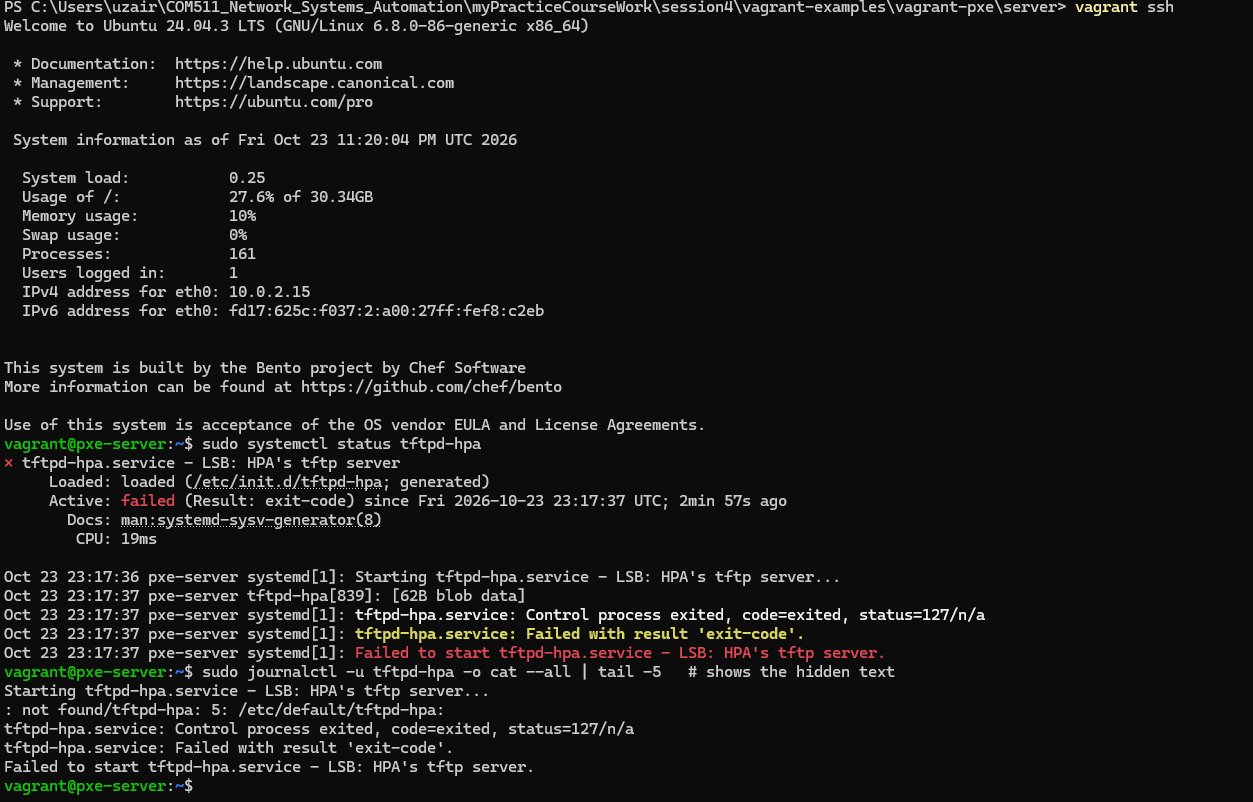
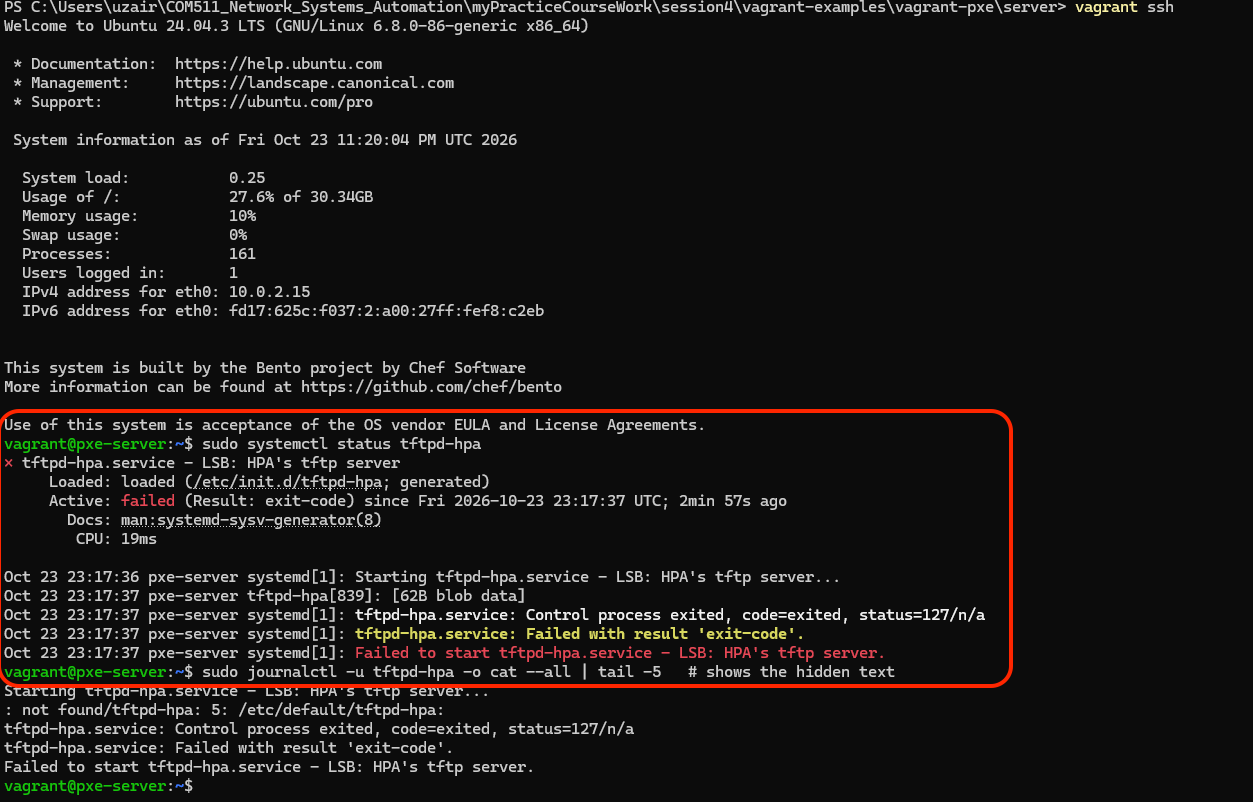
adding crlf-lf notes on session 4

Changed region(s): [[0.0, 0.4988, 0.8093, 0.8728]]

diff --git a/myPracticeCourseWork/personal_journal/sessions/session4.md b/myPracticeCourseWork/personal_journal/sessions/session4.md
@@ -20,20 +20,52 @@
 
 ## Exercises and results
 *What exercises did you complete. What results. Screen shots and notes*
+
+The goal was to get the PXE server running and the client VM to boot from it and install Ubuntu automatically. I ran into two issues that prevented this from happening.
+
 ### Issue 1: Line endings
-* Provisioning the PXE server failed because two files had the wrong line endings
+* From what I could find, provisioning the PXE server failed because a file had the wrong line ending
 ![Error during vagrant up](../images/w4-crlf-error.png)
 
 * Windows uses CRLF to end lines, Linux uses LF
 * Git on Windows was converting LF to CRLF on checkout. Fine for files used on Windows, but these two run inside the Linux VM:
-  * `setup.sh`: provisioning script, updates the VM and installs the initial software (TFTP, NFS, nginx, DHCP)
   * `tftpd-hpa`: configuration for the TFTP server
 * Linux could not read them correctly with CRLF endings, so setup failed
+
+#### Solution
 * Changed both files to LF
-* Researched on Stack Overflow: same problem reported about 13 years ago
-* Fix found: set Git attributes (`.gitattributes`) so Git does not convert line endings for these files
-* Result: provisioning now runs smoothly
+* Researched on Stack Overflow: same [problem reported](https://stackoverflow.com/questions/1967370/git-replacing-lf-with-crlf) about 13 years ago
+
+![Fixing line endings](../images/w4-crlf-vagrantfile.png)
+![Fixing line endings](../images/w4-lf-tftpd.png)
+
+We can check the line endings of a file with `git ls-files --eol <file>`. The outputs in the screenshot show that the `Vagrantfile` is `CRLF` and `tftpd-hpa` file is now set to `LF` which is what the Linux VM needs.
+
+* **More Permanent Fix**: We can set Git attributes (`.gitattributes`) so Git does not convert line endings for these files in future checkouts:
+  * Added a `.gitattributes` file at the root of the repo
+  * Only files that run inside the Linux VMs/containers are forced to LF (`*.sh`, `*.conf`, `tftpd-hpa`)
+  * I did not use a catch-all rule (`* text eol=lf`), because it would also hit any Windows scripts (`.bat`/`.ps1`) added later, and those need CRLF
+
+Added these lines to the `.gitattributes` file at the root of the repo:
+  ```bash
+  *.sh             text eol=lf
+  *.conf           text eol=lf
+  tftpd-hpa        text eol=lf
+  isc-dhcp-server  text eol=lf
+  user-data        text eol=lf
+  **/pxelinux.cfg/default text eol=lf
+  *.png            binary
+  *.c32            binary
+  ```
+
+
+**Result**: provisioning now runs smoothly
+
 ![Successful provisioning](../images/w4-provision-ok.png)
+
+To fix line endings, we can use `git add --renormalize .` to re-add all files in the repo, and then commit the changes. This will fix any line endings that are not consistent with the `.gitattributes` file.
+
+Other ways to fix line endings include using `dos2unix` or `unix2dos` commands, or using a text editor that can convert line endings (like VS Code).
 
 ![Fixing line endings](../images/w4-fixing-crlf.png)
 <!-- ![.gitattributes file](../images/w4-gitattributes) -->
